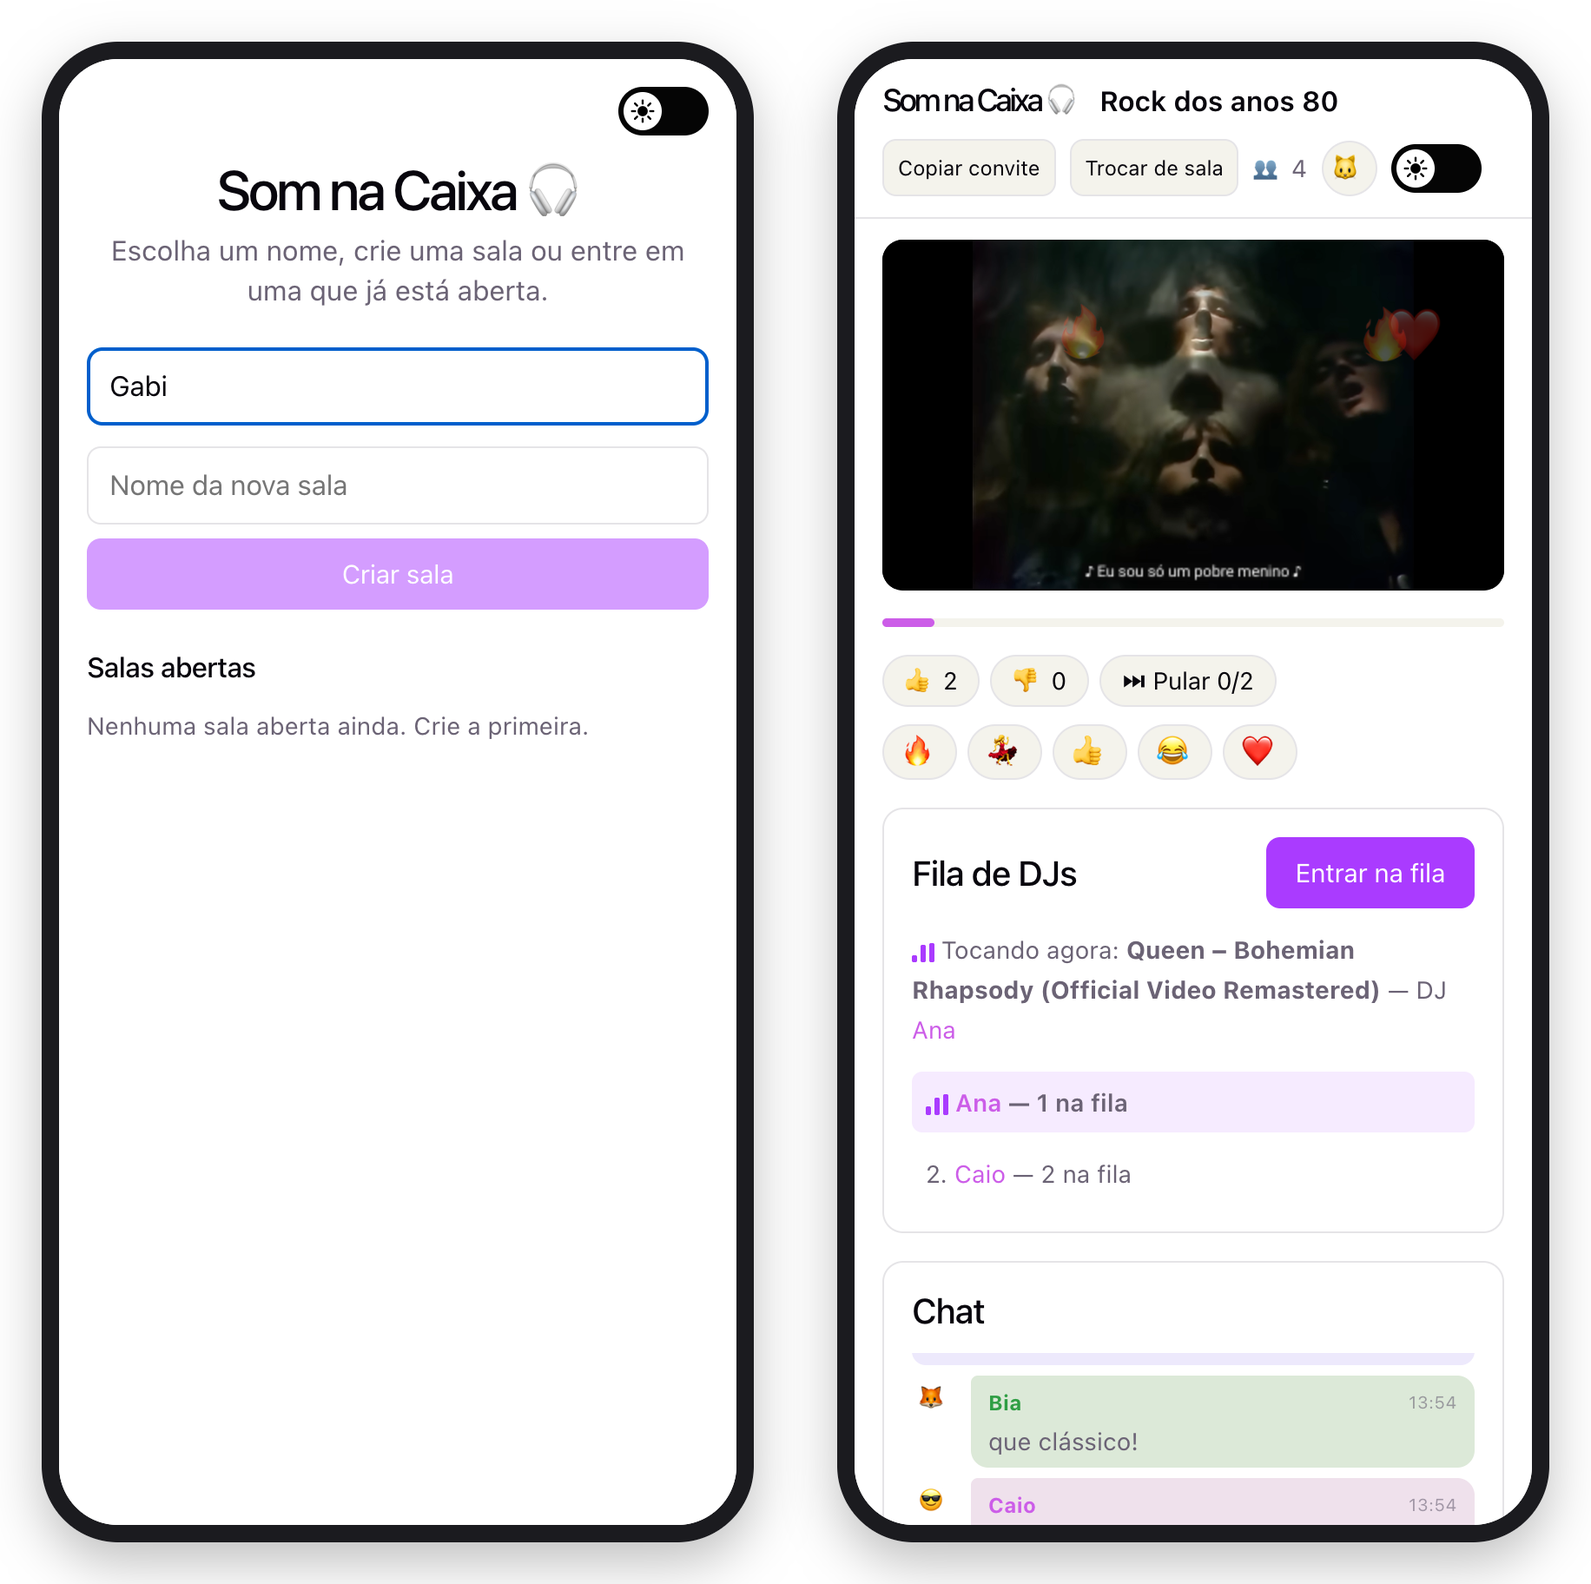
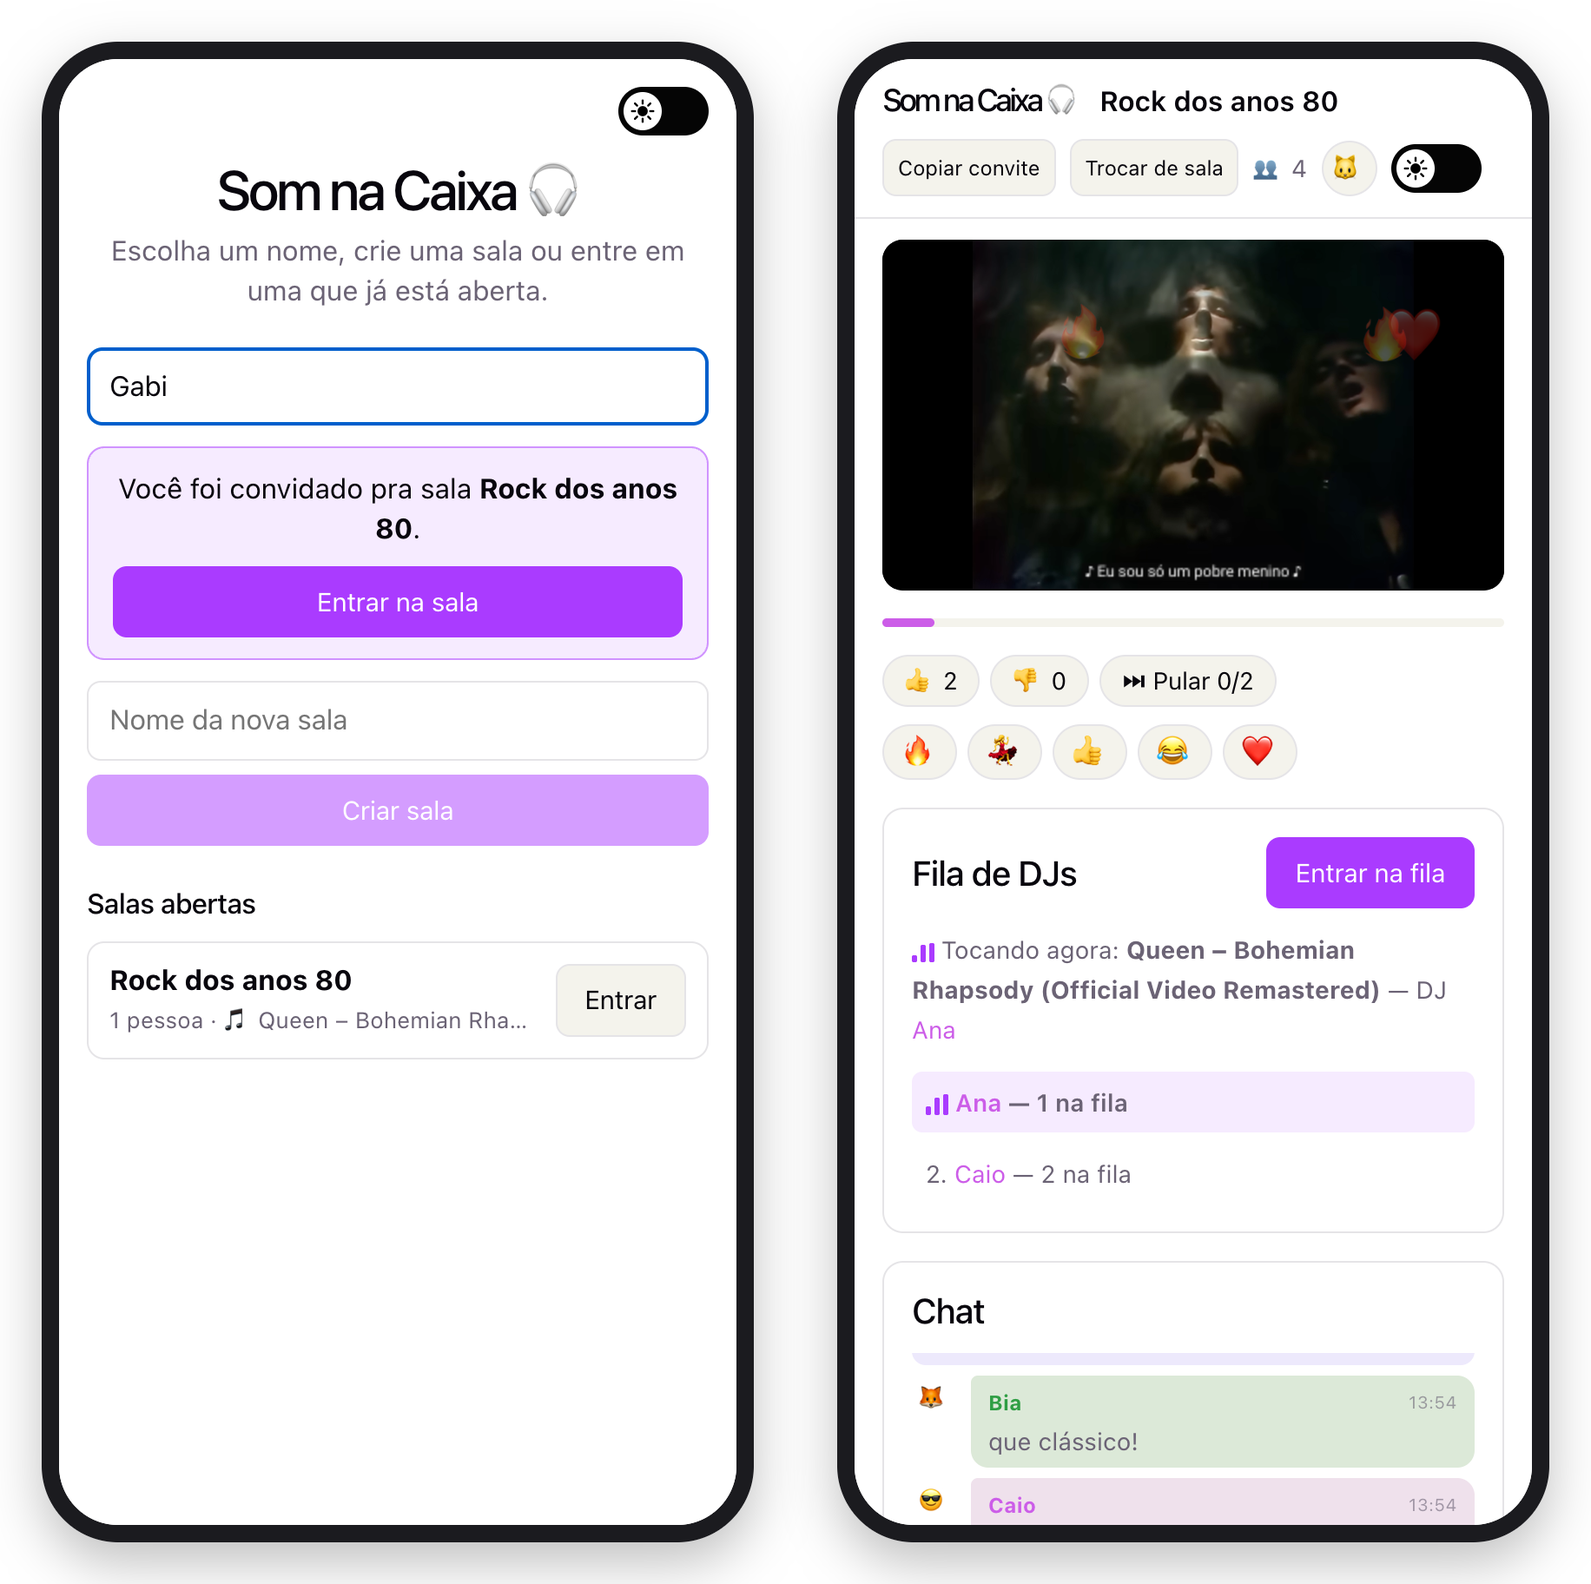
Detailed README with screenshots
Covers getting started, the room, invites, mobile, limits, privacy,
common problems, running locally, deploying, tests and internals.

diff --git a/README.md b/README.md
@@ -1,78 +1,206 @@
-# Som na Caixa
+<p align="center">
+  <img src="docs/icone.png" width="128" alt="Ícone do Som na Caixa">
+</p>
 
-Salas de música para ouvir junto: cada pessoa entra na fila de DJs, escolhe
-músicas do YouTube e todo mundo da sala ouve a mesma coisa, no mesmo ponto
-do vídeo, enquanto conversa no chat. Inspirado no antigo plug.dj.
+<h1 align="center">Som na Caixa</h1>
 
-No ar em **https://som-na-caixa.onrender.com**.
+<p align="center">
+  Salas de música para ouvir junto com os amigos.<br>
+  Cada um põe a sua música do YouTube, todo mundo ouve no mesmo segundo e conversa no chat.
+</p>
 
-Não tem conta nem senha: a pessoa digita um nome, cria uma sala ou entra em
-uma que já está aberta. Tudo fica em memória no servidor. Uma sala some
-quando a última pessoa sai, e todas somem quando o servidor reinicia.
+<p align="center">
+  <a href="https://som-na-caixa.onrender.com"><b>▶ Abrir o Som na Caixa</b></a>
+  &nbsp;·&nbsp; no navegador, no computador ou no celular &nbsp;·&nbsp; sem cadastro &nbsp;·&nbsp; grátis
+</p>
 
-## O que dá pra fazer
+<p align="center">
+  <img src="docs/sala.png" width="900" alt="Sala Rock dos anos 80 com um vídeo tocando, votos, reações, a fila de DJs e o chat">
+</p>
 
-- **Salas:** a página inicial mostra as salas abertas, com quantas pessoas
-  e o que está tocando em cada uma. O nome da sala não pode repetir, e o
-  nome de uma pessoa não pode repetir dentro da mesma sala.
-- **Convite por link:** dentro da sala, "Copiar convite" copia um link
-  `?sala=...`. Quem abre o link vê o convite direto na página inicial.
-- **Fila de DJs:** quem entra na fila monta a própria lista de músicas (até
-  20), buscando ou colando um link do YouTube, a qualquer momento. Dá pra
-  remover e reordenar arrastando. Na sua vez, a próxima música da sua lista
-  toca sozinha. A aba pisca avisando quando é a sua vez e sua lista está
-  vazia.
-- **Votos:** "curti" e "não curti" na música atual (o placar fica no
-  histórico) e voto pra pular, que pula a música quando metade de quem está
-  ouvindo vota. O DJ pode pular a própria música na hora.
-- **Chat e reações:** mensagens com cor e avatar por pessoa, avisos de quem
-  entrou, saiu ou começou a tocar, e emojis que flutuam sobre o vídeo.
-- **Histórico:** as últimas 50 músicas que tocaram na sala.
-- **Personalização:** ícone de perfil (um emoji) e tema
-  claro ou escuro. Nome, ícone e tema ficam salvos no navegador.
-- **Quedas de conexão:** se a internet cair por até 20 segundos, a pessoa
-  volta pra sala sem perder o lugar na fila.
+---
 
-## Proteções do site público
+## Índice
 
-- Limite de ações seguidas por conexão: mensagens, reações, votos, músicas
-  adicionadas, salas criadas e troca de ícone. Quem passa do limite recebe
-  um aviso pra esperar alguns segundos.
-- Limite de buscas por IP e no máximo 100 salas abertas ao mesmo tempo.
-- A cota gratuita da busca do YouTube é de cerca de 100 buscas por dia pro
-  site inteiro. Buscas repetidas são guardadas por 6 horas e não gastam
-  cota. Colar um link não usa a busca.
+- [O que ele faz](#o-que-ele-faz)
+- [Primeiros passos](#primeiros-passos)
+- [Dentro da sala](#dentro-da-sala)
+- [Convidar alguém](#convidar-alguém)
+- [No celular](#no-celular)
+- [Limites e regras](#limites-e-regras)
+- [Privacidade](#privacidade)
+- [Problemas comuns](#problemas-comuns)
+- [Rodar no seu computador](#rodar-no-seu-computador)
+- [Publicar a sua própria versão](#publicar-a-sua-própria-versão)
+- [Testes](#testes)
+- [Como funciona por dentro](#como-funciona-por-dentro)
+- [Estrutura do código](#estrutura-do-código)
+- [Licença](#licença)
 
-## Como funciona
+---
 
-- **Backend** (`server/`): Node.js, Express e Socket.IO. Guarda as salas em
-  memória e manda pra cada sala só o que mudou (estado da música, pessoas,
-  chat, histórico), e a fila pessoal só pro dono.
-- **Frontend** (`client/`): React e Vite. Usa a YouTube IFrame API pra tocar
-  o vídeo e corrige a posição a cada poucos segundos com base no horário em
-  que a música começou no servidor.
-- Em produção o próprio servidor entrega o frontend já buildado, então o
-  deploy é um serviço só.
+## O que ele faz
 
-## Configuração da busca do YouTube
+O Som na Caixa é uma releitura do antigo plug.dj: uma sala onde as pessoas se revezam como DJ e
+todo mundo ouve a mesma música ao mesmo tempo.
 
-A busca usa a YouTube Data API v3 (oficial e gratuita até cerca de 100
-buscas por dia):
+- **Salas abertas**: qualquer pessoa cria uma sala com o nome que quiser. A página inicial mostra
+  todas as salas abertas, com quantas pessoas tem em cada uma e o que está tocando.
+- **Fila de DJs**: quem entra na fila monta a própria lista de músicas, buscando no YouTube ou
+  colando um link. Na sua vez, a próxima música da sua lista toca sozinha para a sala inteira.
+- **Tudo sincronizado**: o vídeo começa no mesmo ponto para todo mundo, inclusive para quem chega
+  no meio da música, e se acerta sozinho se alguém ficar para trás.
+- **Votos**: 👍 e 👎 na música que está tocando, e voto para pular. A música é pulada quando metade
+  de quem está ouvindo vota.
+- **Chat e reações**: mensagens com cor e ícone de cada pessoa, avisos de quem entrou ou começou a
+  tocar, e emojis que sobem flutuando por cima do vídeo.
+- **Histórico**: as últimas 50 músicas que tocaram na sala, com o DJ e o placar de votos.
+- **Convite por link**: um botão copia o link da sala para mandar no WhatsApp ou no Discord.
+- **Tema claro e escuro**, segue o do sistema ou o que você escolher.
+- **Sem cadastro e sem senha**: você só digita um nome. Nada fica guardado no servidor.
 
-1. Acesse [console.cloud.google.com](https://console.cloud.google.com) e
-   crie um projeto.
-2. Em **APIs e Serviços → Biblioteca**, ative **"YouTube Data API v3"**.
-3. Em **APIs e Serviços → Credenciais → Criar Credenciais → Chave de API**,
-   gere uma chave.
-4. Copie `server/.env.example` para `server/.env` e cole a chave em
-   `YOUTUBE_API_KEY`.
+<p align="center">
+  <img src="docs/sala-escura.png" width="900" alt="A mesma sala no tema escuro, vista por um DJ que está montando a própria fila">
+</p>
 
-Sem a chave, a busca mostra um erro, mas colar um link do YouTube no mesmo
-campo continua funcionando.
+## Primeiros passos
 
-## Rodando localmente
+1. Abra **[som-na-caixa.onrender.com](https://som-na-caixa.onrender.com)**.
+2. Digite o seu nome. Ele fica salvo no navegador para a próxima vez.
+3. Crie uma sala, dando um nome a ela, ou clique em **Entrar** em uma das salas abertas.
 
-Em dois terminais separados:
+<p align="center">
+  <img src="docs/inicio.png" width="760" alt="Página inicial com o campo de nome, a criação de sala e três salas abertas">
+</p>
+
+> O site fica num plano gratuito que "dorme" quando ninguém usa. Se ele demorar para abrir, espere
+> cerca de um minuto: é o servidor acordando.
+
+## Dentro da sala
+
+### Ser DJ
+
+1. Clique em **Entrar na fila**.
+2. Na caixa que aparece, busque uma música (por exemplo, `queen bohemian rhapsody`) e clique em
+   **+ Adicionar**, ou cole um link do YouTube e aperte Enter.
+3. Adicione quantas quiser, até 20, a qualquer momento, sem esperar a sua vez. Arraste para
+   mudar a ordem e use **Remover** para tirar uma música.
+4. Quando chega a sua vez, a primeira música da sua lista começa a tocar sozinha. Se a lista
+   estiver vazia, a caixa fica destacada e o título da aba pisca "Sua vez de tocar!".
+5. Enquanto a sua música toca, você pode pular ela na hora com **Pular minha música**.
+
+Quem sai da fila perde a lista que estava montando.
+
+### Votar
+
+| Botão | O que faz |
+|---|---|
+| 👍 | Curti. Aparece no placar da música e fica no histórico |
+| 👎 | Não curti. Também vai para o placar e o histórico |
+| ⏭ Pular 1/2 | Voto para pular. O número mostra quantos votos tem e quantos são precisos |
+
+São precisos os votos de metade de quem está ouvindo (o DJ não conta), arredondando para cima:
+com 3 ouvintes, 2 votos pulam a música. Clicar de novo desfaz o voto. O DJ não vota na própria
+música.
+
+### Chat, reações e ícone
+
+- O chat guarda as últimas 100 mensagens da sala, com até 300 caracteres cada.
+- Os botões 🔥 💃 👍 😂 ❤ embaixo do vídeo mandam uma reação que sobe flutuando para todo mundo.
+- O botão redondo no topo escolhe o seu ícone entre 16 emojis. Sem ícone, o chat mostra a
+  inicial do seu nome numa cor fixa.
+- **Trocar de sala** volta para a página inicial, com o seu nome ainda preenchido.
+
+## Convidar alguém
+
+Dentro da sala, clique em **Copiar convite**. O link é algo como
+`https://som-na-caixa.onrender.com/?sala=Ab12Cd34`. Quem abre o link vê o convite logo abaixo do
+campo de nome e entra com um clique.
+
+O link vale enquanto a sala existir. Quando a última pessoa sai, a sala fecha e o convite avisa
+que ela não existe mais.
+
+## No celular
+
+O site se ajusta à tela do celular: o vídeo fica em cima, depois os votos, a fila de DJs, o chat e
+o histórico. Não precisa instalar nada.
+
+<p align="center">
+  <img src="docs/celular.png" width="560" alt="No celular: o convite para a sala e a sala tocando uma música">
+</p>
+
+## Limites e regras
+
+O site é público, então algumas regras evitam bagunça:
+
+| O quê | Regra |
+|---|---|
+| Nome da pessoa | Até 24 caracteres. Não pode repetir dentro da mesma sala |
+| Nome da sala | Até 40 caracteres. Não pode repetir entre as salas abertas |
+| Salas abertas | No máximo 100 ao mesmo tempo |
+| Mensagens no chat | 5 seguidas, depois 1 por segundo |
+| Reações | 8 seguidas, depois cerca de 3 por segundo |
+| Votos | 10 seguidos, depois 2 por segundo |
+| Músicas adicionadas | 10 seguidas, depois 1 a cada 2 segundos |
+| Criar salas | 3 seguidas, depois 1 a cada 20 segundos |
+| Buscas no YouTube | 10 seguidas por IP, depois 1 a cada 10 segundos |
+
+Quem passa de um limite vê o aviso "Calma, você está fazendo isso rápido demais" e só precisa
+esperar alguns segundos.
+
+A busca usa a cota gratuita da API do YouTube, que é de cerca de **100 buscas por dia para o site
+inteiro**. Buscas repetidas ficam guardadas por 6 horas e não gastam cota. Colar um link não usa
+busca nenhuma, então continua funcionando mesmo se a cota acabar.
+
+## Privacidade
+
+- **Não tem conta, e-mail nem senha.** O nome que você digita só existe enquanto você está na sala.
+- **O servidor não grava nada em disco.** Salas, chat, filas e histórico ficam na memória: somem
+  quando a sala esvazia e todos somem quando o servidor reinicia.
+- **No seu navegador** ficam três coisas, para a próxima visita: o nome, o ícone e o tema. Dá para
+  apagar limpando os dados do site.
+- **O vídeo vem do YouTube.** O player é o oficial do YouTube, carregado direto do site deles.
+
+## Problemas comuns
+
+**O site demora para abrir**
+
+É o servidor gratuito acordando depois de um tempo parado. Leva cerca de um minuto, uma vez só.
+
+**A sala sumiu**
+
+Ela fecha quando a última pessoa sai, e todas fecham quando o servidor reinicia (depois de uma
+atualização ou quando ele dorme). É só criar outra.
+
+**A busca deu erro**
+
+A cota do dia acabou ou o limite de buscas seguidas foi atingido. Cole o link do vídeo do
+YouTube no mesmo campo: isso não depende da busca.
+
+**Uma música não toca**
+
+Alguns vídeos não permitem ser tocados fora do YouTube. Se a música travar, o DJ pode pular ou a
+sala pode votar para pular.
+
+**O vídeo começou sem som**
+
+Alguns navegadores bloqueiam som automático. Clique uma vez no vídeo ou no volume do player.
+
+**A internet caiu**
+
+Se ela voltar em até 20 segundos, você continua na sala sem perder o lugar na fila. Depois disso,
+o site volta para a página inicial com o seu nome preenchido.
+
+## Rodar no seu computador
+
+Precisa do [Node.js](https://nodejs.org) 22 ou mais novo.
+
+```bash
+git clone https://github.com/marcosznl/som-na-caixa.git
+cd som-na-caixa
+```
+
+Em dois terminais:
 
 ```bash
 cd server && npm install && npm run dev
@@ -82,17 +210,36 @@ cd server && npm install && npm run dev
 cd client && npm install && npm run dev
 ```
 
-O backend sobe em `http://localhost:3001` e o frontend em
-`http://localhost:5173`. Abra o frontend em duas abas ou dispositivos pra
-testar a sincronização.
+Abra `http://localhost:5173` em duas abas para ver a sincronização. O servidor fica em
+`http://localhost:3001`.
 
-Pra acessar de outro dispositivo na rede local, crie `client/.env` com:
+**Busca do YouTube (opcional).** Sem ela, colar links funciona normalmente.
 
-```
-VITE_SERVER_URL=http://SEU_IP_LOCAL:3001
-```
+1. Em [console.cloud.google.com](https://console.cloud.google.com), crie um projeto.
+2. Em **APIs e Serviços → Biblioteca**, ative a **YouTube Data API v3**.
+3. Em **APIs e Serviços → Credenciais → Criar credenciais → Chave de API**, gere uma chave.
+4. Copie `server/.env.example` para `server/.env` e cole a chave em `YOUTUBE_API_KEY`.
 
-e ajuste `CLIENT_ORIGIN` no ambiente do servidor, se necessário.
+**Outro aparelho na mesma rede.** Crie `client/.env` com
+`VITE_SERVER_URL=http://SEU_IP_LOCAL:3001` e ajuste `CLIENT_ORIGIN` no `server/.env`.
+
+| Variável (`server/.env`) | Para quê | Padrão |
+|---|---|---|
+| `PORT` | Porta do servidor | `3001` |
+| `CLIENT_ORIGIN` | Endereço do front-end em desenvolvimento (CORS) | `http://localhost:5173` |
+| `YOUTUBE_API_KEY` | Chave da busca do YouTube | vazia |
+
+## Publicar a sua própria versão
+
+O repositório já vem com um [`render.yaml`](render.yaml) para o [Render](https://render.com):
+
+1. Faça um fork deste repositório.
+2. No Render, clique em **New → Blueprint** e escolha o seu fork.
+3. Cole a `YOUTUBE_API_KEY` quando ele pedir, ou deixe em branco.
+4. Espere o build. O endereço aparece no topo da página do serviço.
+
+Em produção um serviço só entrega o site, a API e o websocket. Cada push na `main` publica a nova
+versão sozinho. O plano gratuito do Render dorme depois de uns 15 minutos sem acesso.
 
 ## Testes
 
@@ -101,22 +248,62 @@ npm install --prefix server
 npm test
 ```
 
-Os testes sobem o servidor de verdade numa porta livre e conversam com ele
-pelo Socket.IO, como o navegador faria: criar e entrar em salas, nomes
-repetidos, chat, limites, fila pessoal e votos. Também cobrem as funções
-puras (limitador, votos, links do YouTube). Nenhum teste usa a internet.
+São 17 testes, e nenhum usa a internet. Parte deles sobe o servidor de verdade numa porta livre e
+conversa com ele pelo Socket.IO, como o navegador faria: criar e entrar em salas, nomes repetidos,
+chat, limites, fila pessoal, votos e ícones. Os outros testam as funções puras: o limitador, a
+contagem de votos e a leitura dos links do YouTube.
 
-## Deploy no Render
+## Como funciona por dentro
 
-O repositório tem um `render.yaml`. No Render, use **New → Blueprint**,
-escolha este repositório e informe a `YOUTUBE_API_KEY` quando pedir. Cada
-push na `main` publica a nova versão sozinho.
+- **Servidor** (`server/`): Node.js, Express e Socket.IO. Cada sala é um objeto na memória com a
+  fila de DJs, a música atual, os votos, o chat e o histórico. Em produção o mesmo servidor
+  entrega o front-end já compilado.
+- **Front-end** (`client/`): React e Vite, sem biblioteca de estado nem de componentes. O vídeo
+  usa a YouTube IFrame API.
+- **Sincronização do vídeo.** Quando uma música começa, o servidor guarda o horário de início
+  (`startedAt`). Cada navegador calcula onde o vídeo deveria estar (`agora - startedAt`) e, a cada
+  5 segundos, corrige a posição se estiver mais de 1,5 segundo fora.
+- **Quando a música acaba.** O navegador do DJ avisa o servidor. Se esse aviso não chegar (aba em
+  segundo plano, celular bloqueado), o servidor avança sozinho depois da duração do vídeo mais 15
+  segundos.
+- **Só manda o que mudou.** As atualizações vão em pedaços separados: uma mensagem de chat manda
+  só a mensagem, um voto manda só o estado da música, e cada pessoa recebe só a própria fila.
 
-No plano gratuito o serviço dorme depois de um tempo sem acesso e leva
-cerca de um minuto pra acordar. Como tudo fica em memória, as salas começam
-vazias de novo.
+  | Evento | Quando é enviado | Conteúdo |
+  |---|---|---|
+  | `lobby:sync` | Para quem está na página inicial, quando algo muda | Salas abertas |
+  | `state:sync` | Música, fila de DJs ou votos mudaram | Cabine, música atual, votos |
+  | `users:sync` | Alguém entrou, saiu ou trocou de ícone | Pessoas da sala com o ícone |
+  | `chat:sync` / `chat:new` | Ao entrar / a cada mensagem | Chat inteiro / uma mensagem |
+  | `history:sync` | Uma música começou ou terminou | Músicas que já tocaram |
+  | `queue:sync` | A sua fila mudou | A sua fila, só para você |
+
+- **Quedas rápidas.** O Socket.IO recupera a mesma conexão por até 2 minutos, e o servidor espera
+  20 segundos antes de tirar alguém da sala. Uma queda curta passa despercebida.
+- **Limites.** Cada ação tem um "balde de fichas" por conexão (a busca, por IP): dá para fazer
+  algumas vezes seguidas, e depois as fichas voltam aos poucos.
+
+## Estrutura do código
+
+```
+server/
+  src/index.js          Express, Socket.IO, salas e todos os eventos
+  src/roomState.js      Estado de uma sala: fila de DJs, filas pessoais, votos, chat, histórico
+  src/rateLimit.js      Limitador por "balde de fichas"
+  src/youtubeSearch.js  Busca e duração dos vídeos, com cache
+  src/youtube.js        Extrai o ID do vídeo de um link do YouTube
+  test/                 Testes (node --test)
+client/
+  src/App.jsx           Conexão, estado da sala e link de convite
+  src/components/       Página inicial (Lobby), sala, player, fila, votos, chat, histórico
+render.yaml             Deploy no Render
+```
 
 ## Licença
 
-[MIT](LICENSE): pode usar, modificar e distribuir, mantendo o aviso de
-autoria.
+O Som na Caixa é distribuído sob a licença [MIT](LICENSE): pode usar, modificar e distribuir,
+mantendo o aviso de autoria.
+
+Os vídeos são tocados pelo player oficial do YouTube. As imagens deste README mostram videoclipes
+dos respectivos artistas e gravadoras só como exemplo. O Som na Caixa não tem relação com o
+YouTube nem com o plug.dj.
